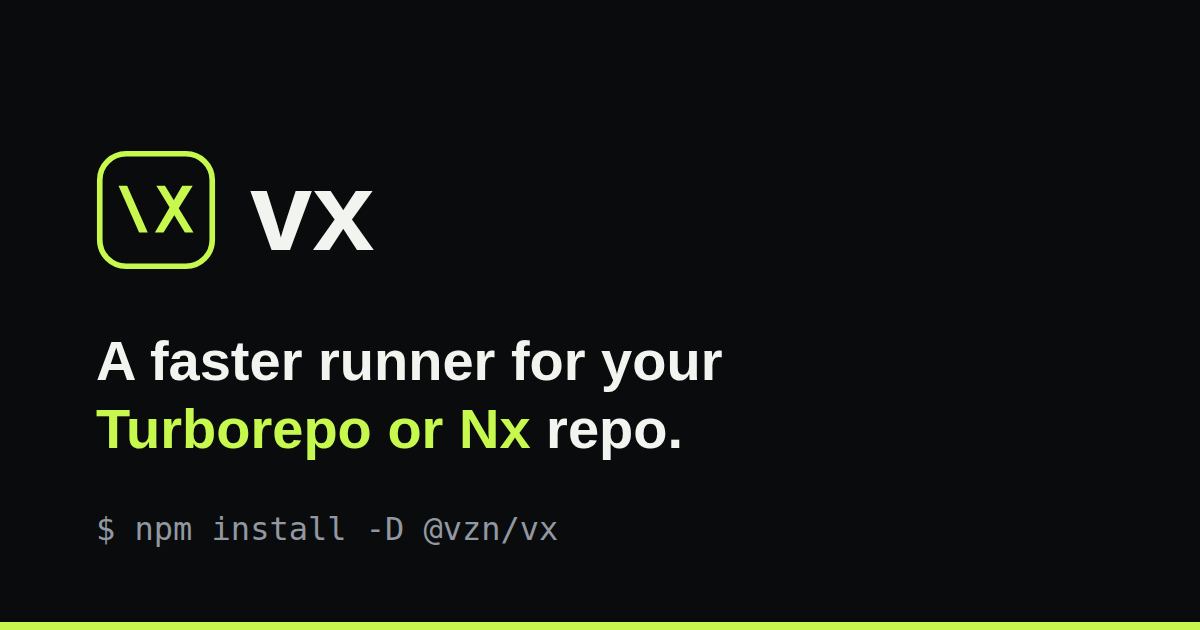
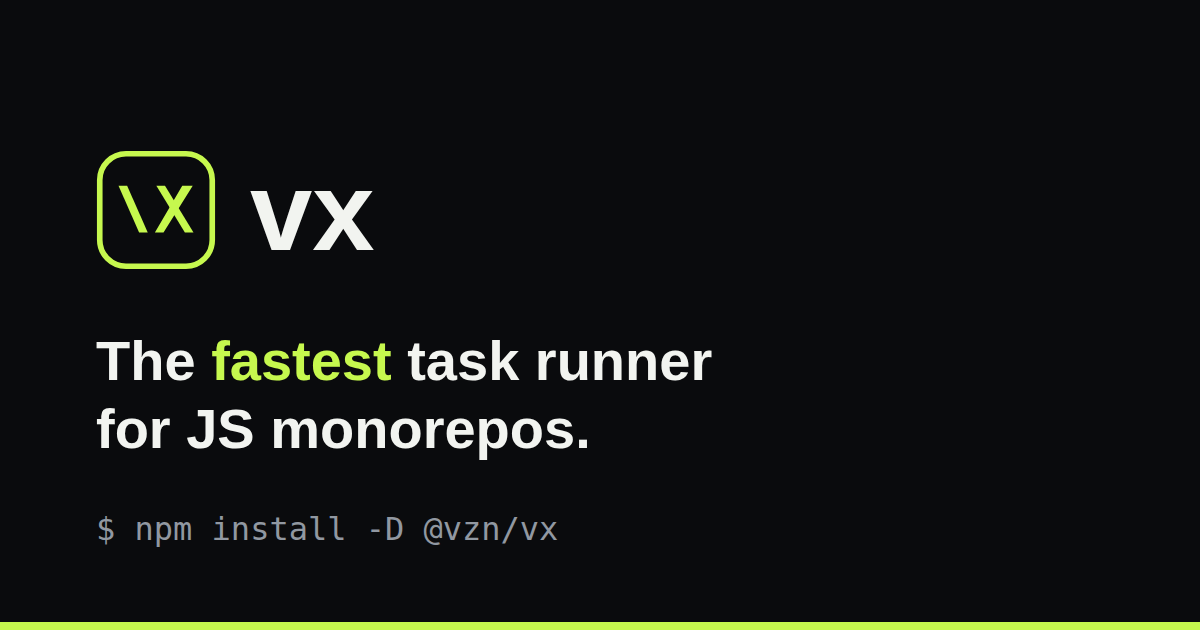
docs(vx-docs): put the page's headline on the share card (#2351)
The og card still said "a faster runner for your Turborepo or Nx
repo" after the landing moved to "the fastest task runner for JS
monorepos" (owner, 2026-10-02). og.svg carries the headline, og.png is
re-rendered from it, and a landing row holds the card's text to the h1.

Claude-Session: https://claude.ai/code/session_01RKG11pXtLnHYk8CnozQqdu

Changed region(s): [[0.0617, 0.6333, 0.5858, 0.7238], [0.0617, 0.5429, 0.6167, 0.6333]]

diff --git a/packages/vx-docs/tests/landing.test.ts b/packages/vx-docs/tests/landing.test.ts
@@ -454,6 +454,19 @@ describe('a shared link shows the card', () => {
     )
   })
 
+  // The PNG is rendered from public/og.svg; the card said "a faster runner
+  // for your Turborepo or Nx repo" after the page stopped (2026-10-02).
+  it('the card says what the page says', () => {
+    const svg = readFileSync(path.resolve(import.meta.dir, '../public/og.svg'), 'utf8')
+    const lines = [
+      ...svg.matchAll(/<tspan x="96"[^>]*>([\s\S]*?)<\/tspan>\s*(?=<tspan x=|<\/text>)/g),
+    ]
+      .map((m) => text(m[1]!))
+      .join(' ')
+    const h1 = text(/<h1\b[^>]*>([\s\S]*?)<\/h1>/.exec(page())![1]!)
+    expect(lines).toBe(h1)
+  })
+
   it('the card is a 1200×630 PNG', () => {
     const png = readFileSync(path.join(DIST, 'og.png'))
     expect(png.subarray(1, 4).toString()).toBe('PNG')

diff --git a/packages/vx/docs/history/ws-r.md b/packages/vx/docs/history/ws-r.md
@@ -53,6 +53,9 @@
   explicit-over-magical, one-binary) quoted solidjs/solid numbers
   measured through `turbo()`; each keeps only the native-config
   benchmark, and site-samples stops pinning the solid figures.
+- **R-14** The share card (`og.svg` / `og.png`) still said "a faster
+  runner for your Turborepo or Nx repo"; it now carries the page's
+  headline, and the landing test holds the card's text to the `<h1>`.
 - **R-13** patterns.md's performance table and the docs README's
   headline line gave Turbo and Nx as multiples; they now give vx's %
   by the same formula, with the formula line.
